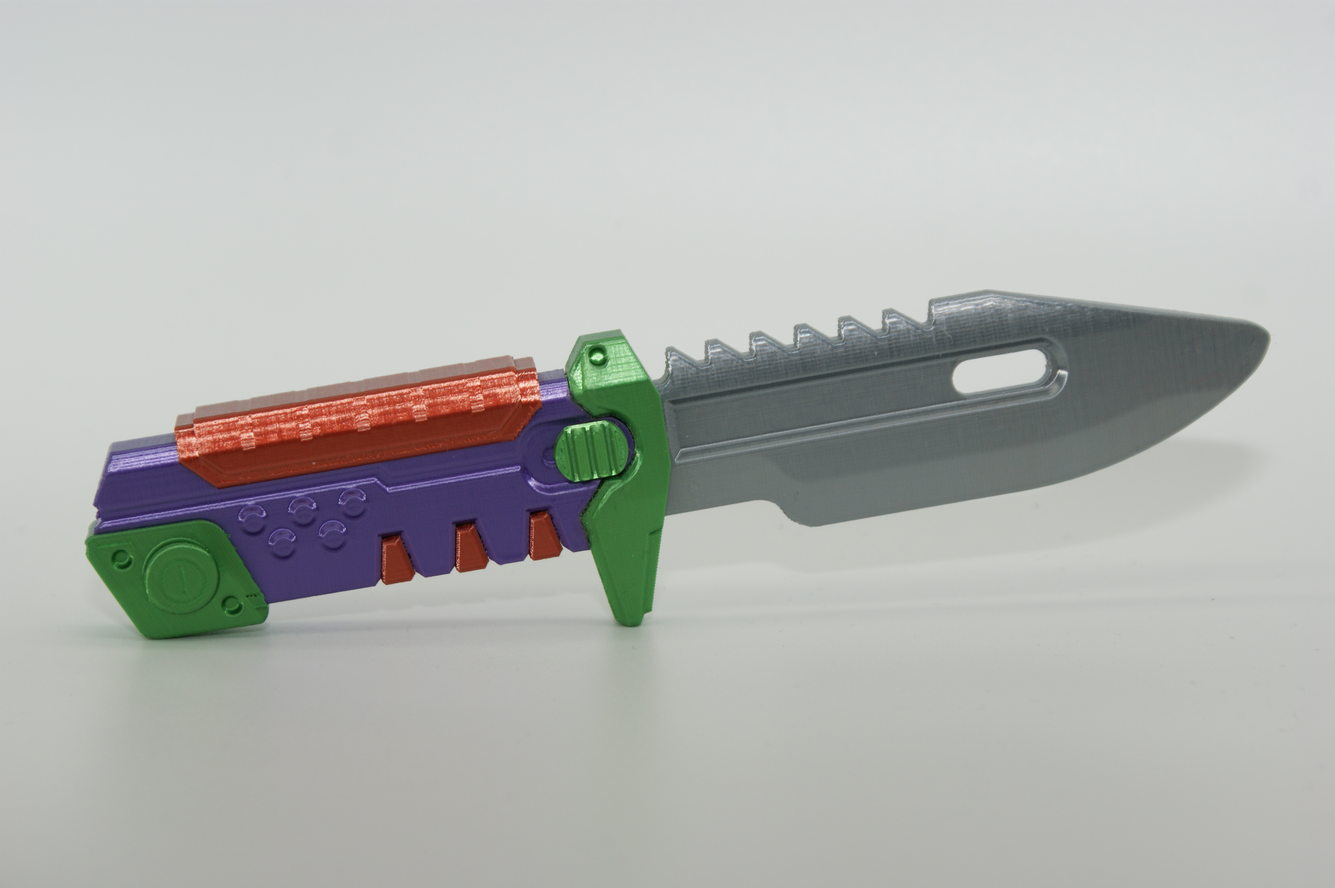
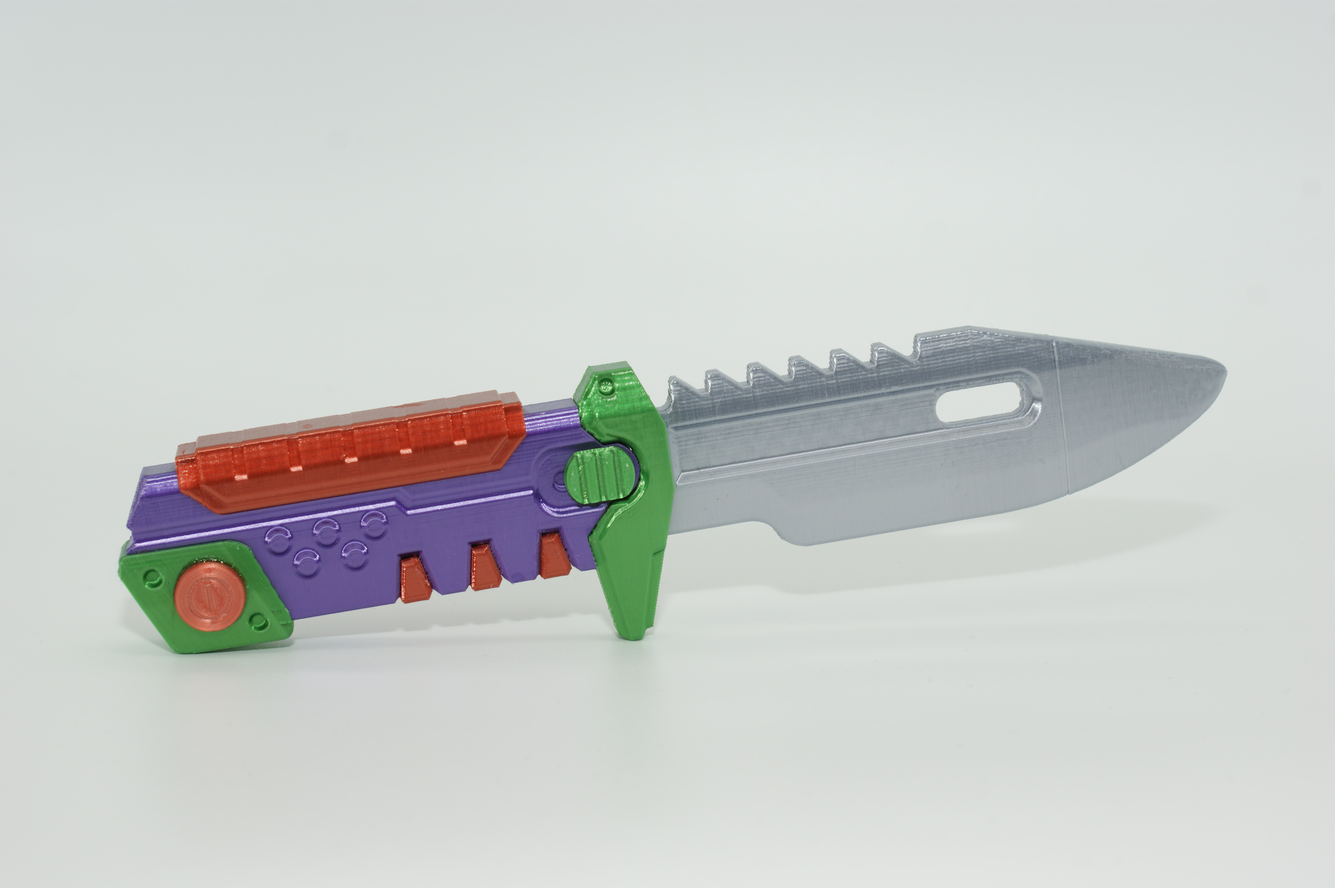
pic change

diff --git a/Modelle/index.html b/Modelle/index.html
@@ -40,7 +40,7 @@
             <img src="./images/models/blast-x/v1-3.JPG" alt="Bild von einem 3D-gedruckten Messer aus einem Videospiel">
             <img src="./images/models/blast-x/v2-3.JPG" alt="Bild von einem 3D-gedruckten Messer aus einem Videospiel">
             <img src="./images/models/blast-x/v3-3.JPG" alt="Bild von einem 3D-gedruckten Messer aus einem Videospiel">
-            <img src="./images/models/blast-x/v1-3.JPG" alt="Bild von einem 3D-gedruckten Messer aus einem Videospiel">
+            <img src="./images/models/blast-x/v4-3.JPG" alt="Bild von einem 3D-gedruckten Messer aus einem Videospiel">
             <h2>Blast-X Messer aus Valorant - 9,99€</h2>
             <p>Dieses Messer stammt aus dem Spiel Valorant, und entstammt der Skin Reihe Blast-X.</p>
         </div>
